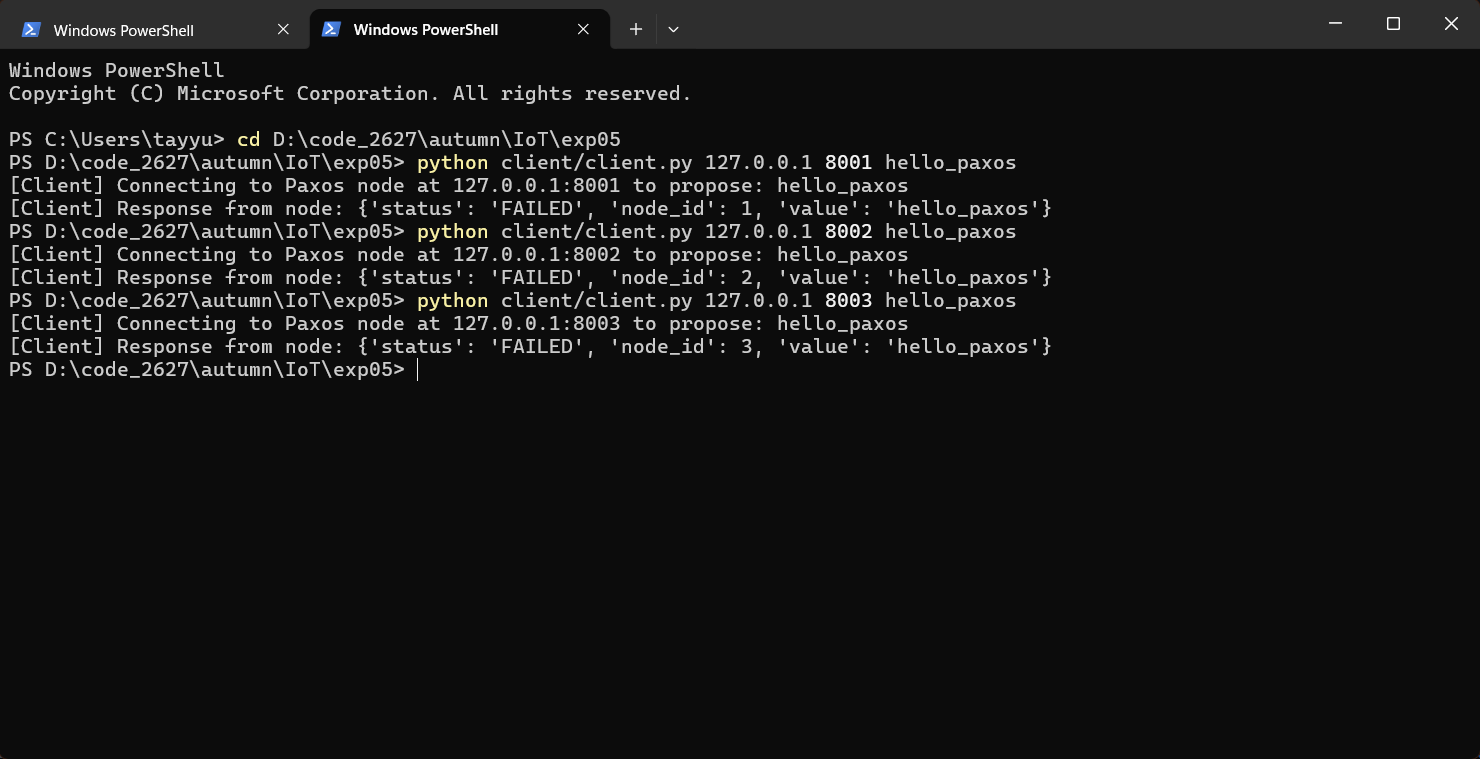
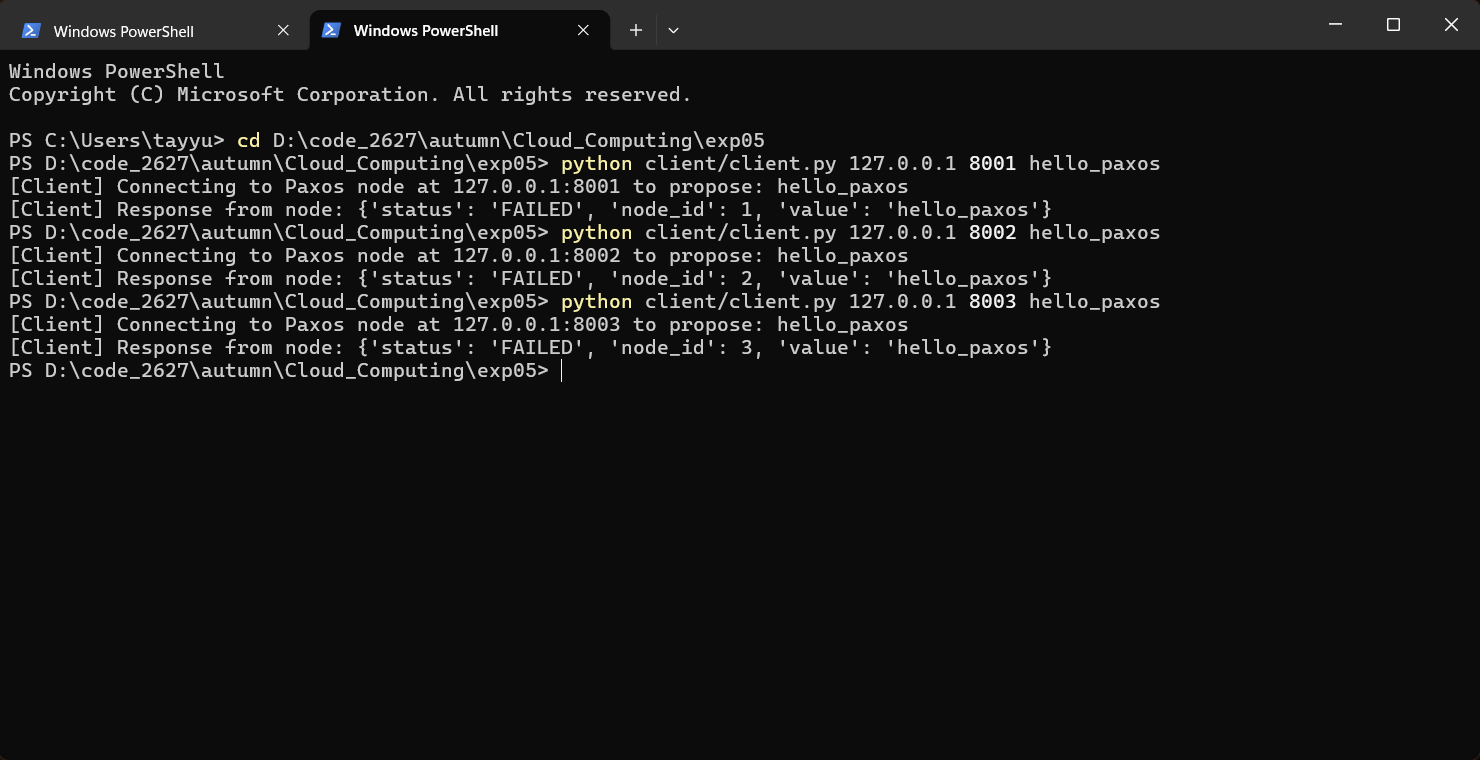
Update README for cloud computing and add experiment screenshots

diff --git a/README.md b/README.md
@@ -1,4 +1,4 @@
-# IoT Exp05: Paxos Distributed Consensus Implementation & Docker Deployment
+# Cloud Computing Exp05: Paxos Distributed Consensus Implementation & Docker Deployment
 
 本项目是《云计算技术》课程实验五的实现，旨在通过 Python 从零实现一个基础的 **Paxos 分布式共识协议**，并通过 **Docker 容器化** 模拟分布式集群环境，验证分布式系统中的安全性（Safety）与共识达成机制。
 
